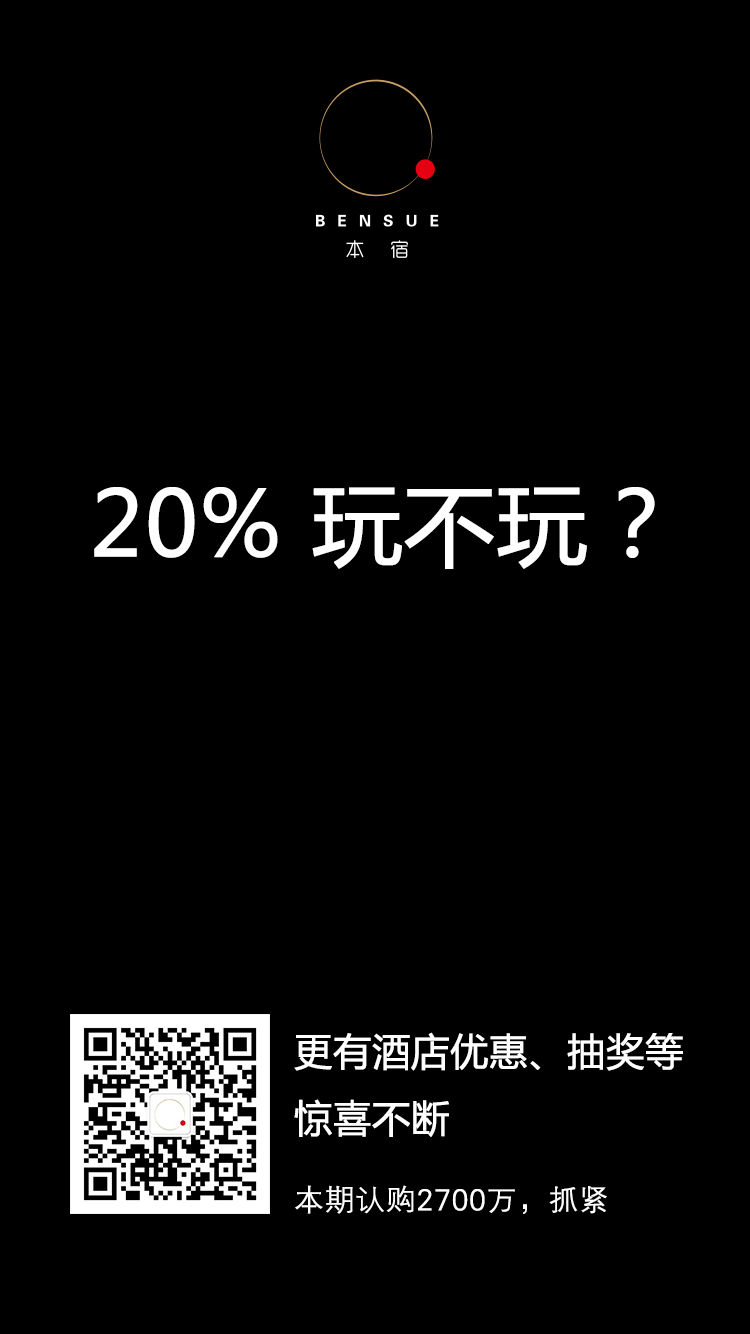
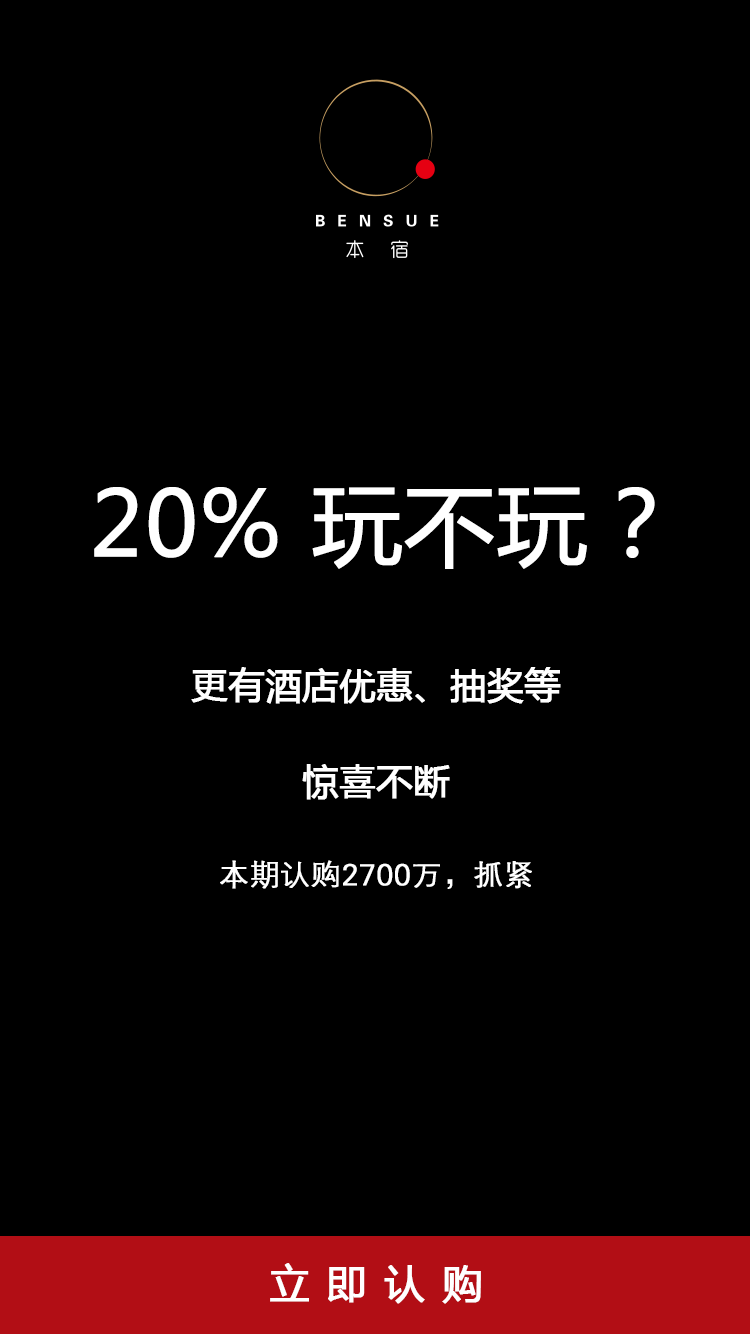
推广卡页面修改，添加认购跳转

diff --git a/js/pages/card/promotion.html b/js/pages/card/promotion.html
@@ -5,7 +5,6 @@
 }
 
 .swiper-slide {
-    background-size: contain;
     padding: 0;
 }
 
@@ -14,7 +13,6 @@
     background-size: contain;
     height: 100%;
 }
-
 </style>
 <div class="swiper-container">
     <div class="swiper-wrapper">
@@ -37,13 +35,14 @@
             <div style="background-image: url(img/promotion_6.png);"></div>
         </div>
         <div class="swiper-slide">
-            <div style="background-image: url(img/promotion_7.png);"></div>
+            <div style="background-image: url(img/promotion_7.png);">
+               <div style="height: 100px; background-color: transparent; position: fixed; bottom: 0;" onclick="location.href='card-list.html'"></div>
+            </div>
         </div>
     </div>
 </div>
 <!-- Swiper JS -->
 <script src="../js/lib/swiper.min.js"></script>
-<!-- Initialize Swiper -->
 <script>
 var swiper = new Swiper('.swiper-container', {
     width: window.innerWidth - 20,
